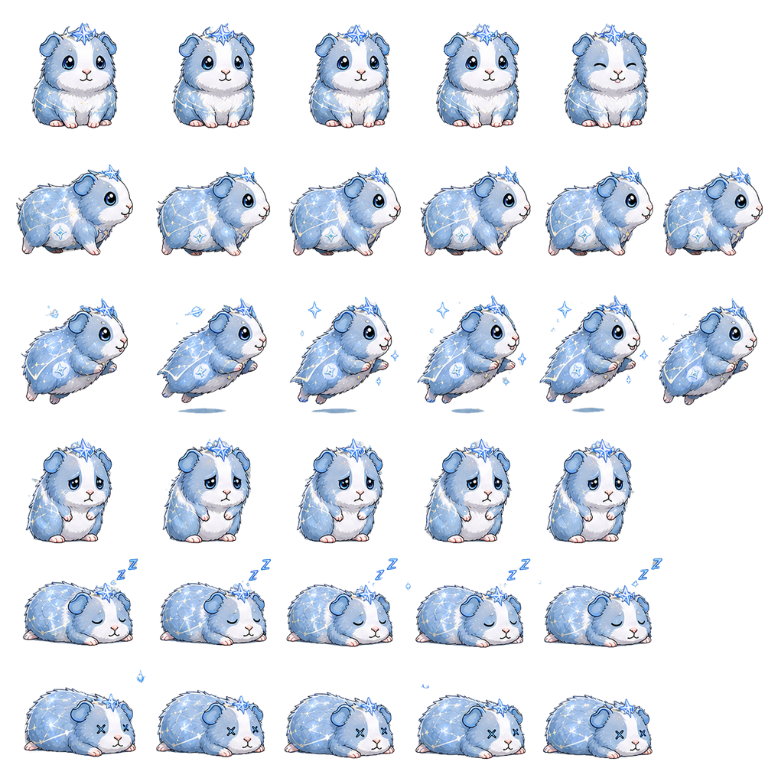
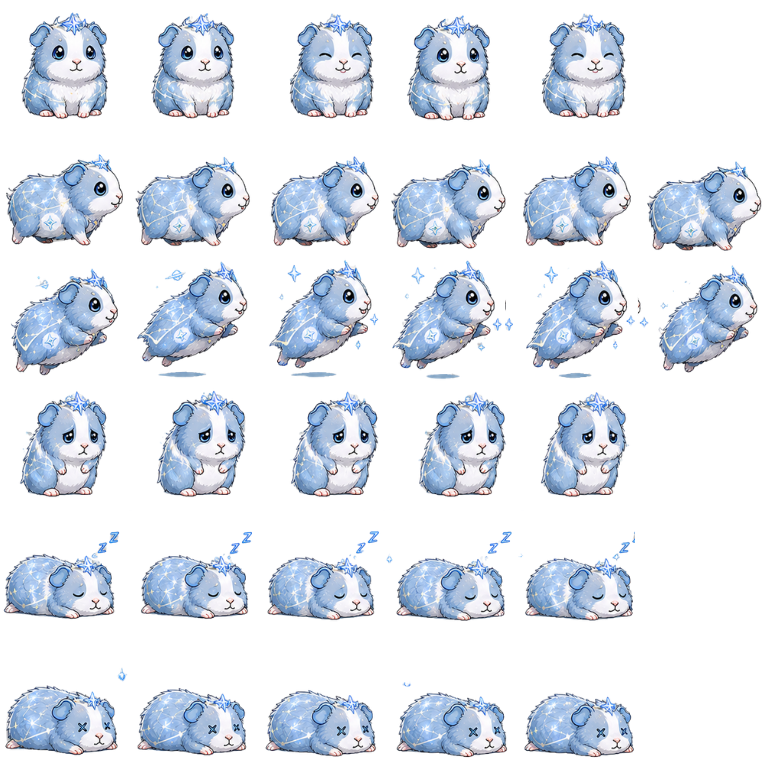
Update Tomi character assets and simplify sprite component logic
Replit-Commit-Author: Agent

diff --git a/src/components/TomiSprite.jsx b/src/components/TomiSprite.jsx
@@ -29,12 +29,6 @@ const SKIN_SPRITE = {
   pet_skin_void:   '/tomi-void-emperor.png',
 }
 
-// ── Custom row Y-starts (px in original sheet) for skins with non-128px row spacing ──
-// Measured by scanning pixel content bands; eliminates bleed between adjacent rows.
-const SKIN_ROW_Y = {
-  pet_skin_cosmic: { idle:0, walk:168, happy:300, hungry:430, sleeping:558, dead:647 },
-  pet_skin_void:   { idle:0, walk:150, happy:278, hungry:416, sleeping:546, dead:640 },
-}
 
 // ── Keyframe injection cache ─────────────────────────────────────────────────
 // One @keyframes per (state, size) pair — injected once, reused forever.
@@ -73,8 +67,7 @@ export default function TomiSprite({ state = 'idle', skinId = 'golden', size = 1
   const scale    = size / CELL_H
   const bgW      = SHEET_W * scale
   const bgH      = SHEET_H * scale
-  const rowY     = SKIN_ROW_Y[skinId]?.[state] ?? (cfg.row * CELL_H)
-  const bgY      = -(rowY * scale)
+  const bgY      = -(cfg.row * CELL_H * scale)
   const duration = (cfg.frames / cfg.fps).toFixed(3)
   const sprite   = SKIN_SPRITE[skinId] || SKIN_SPRITE.golden
 
